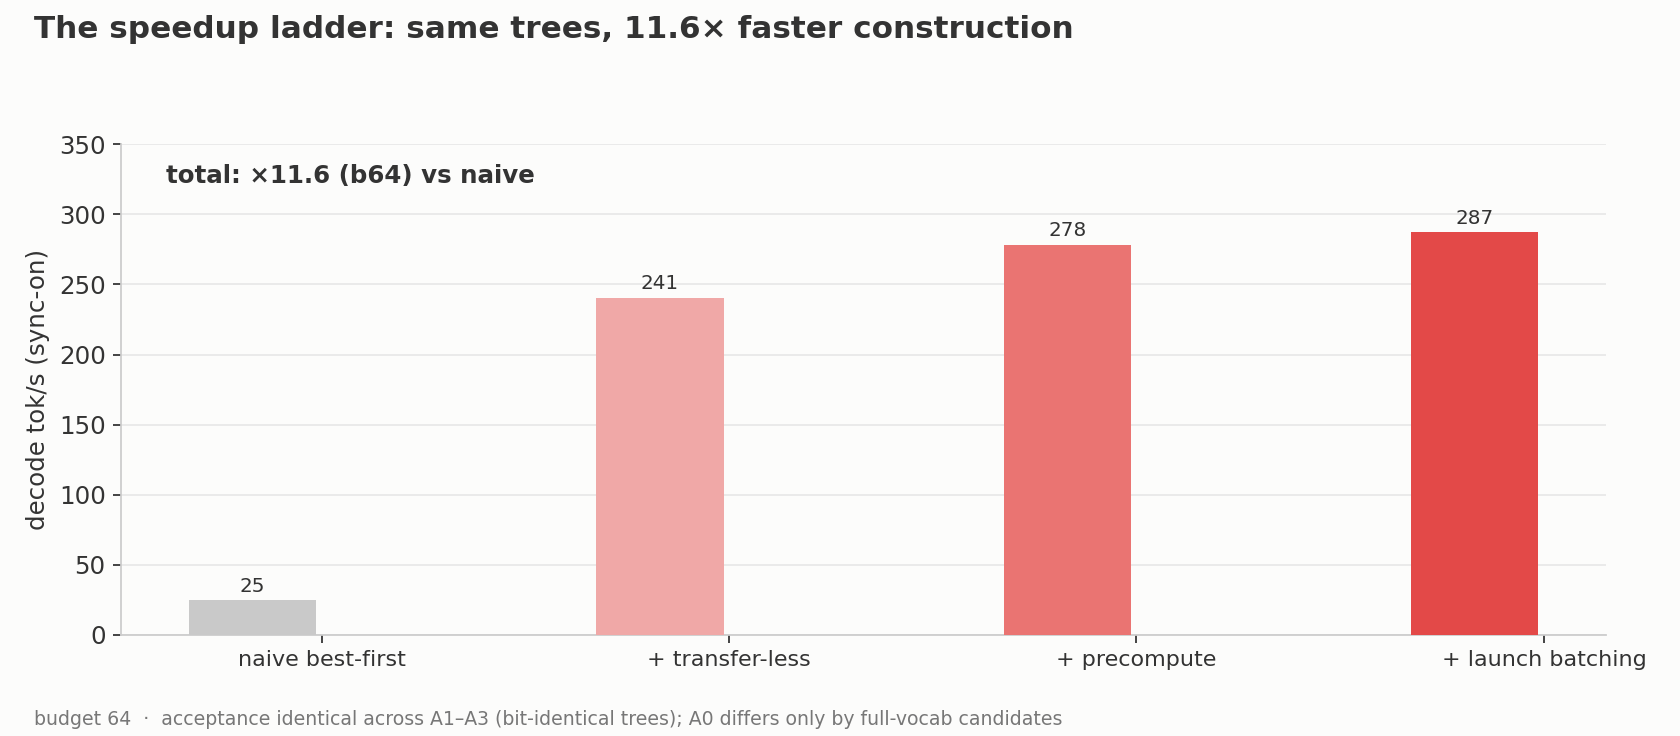
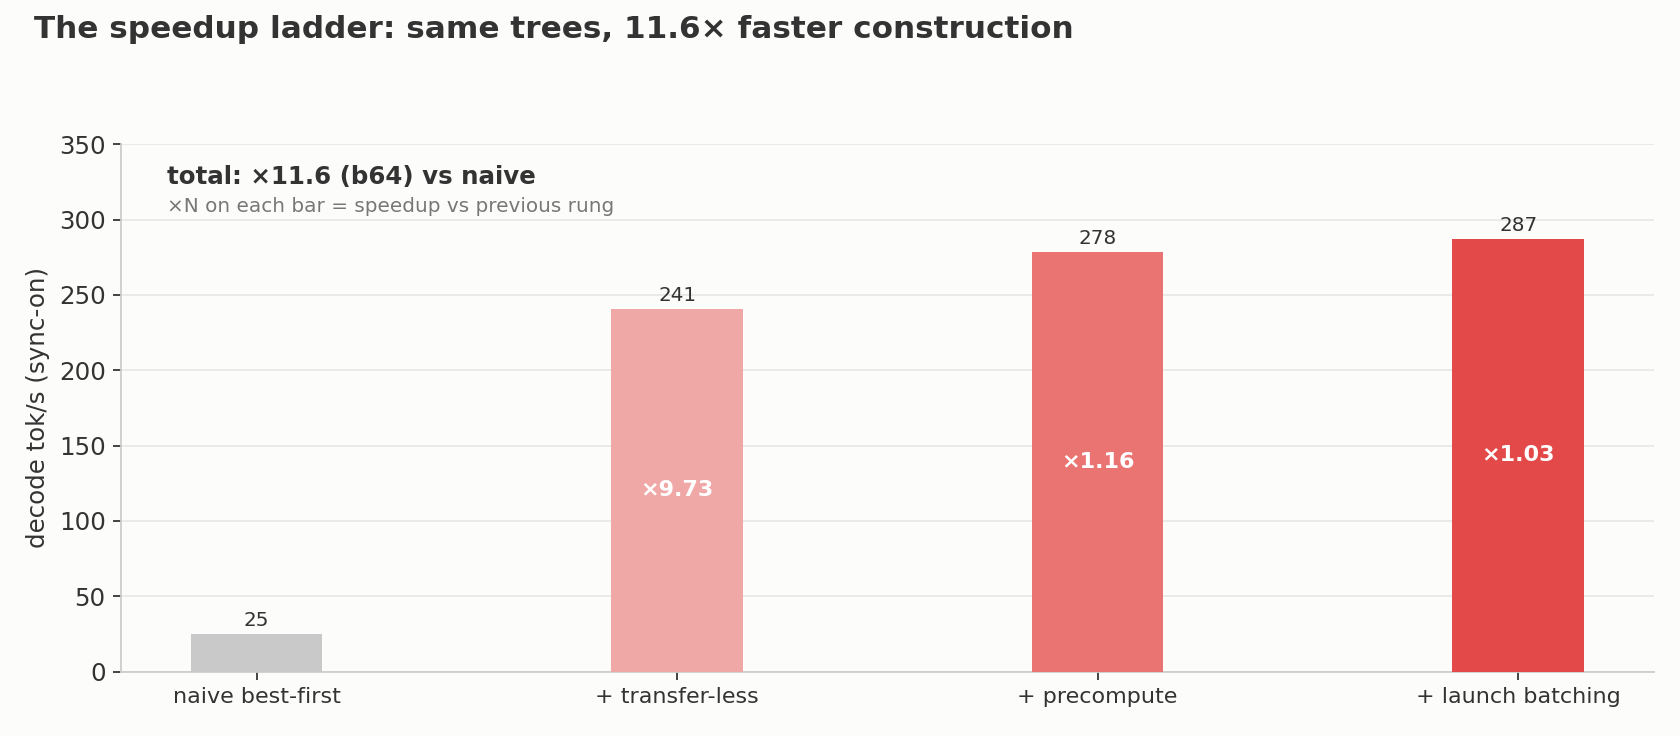
all

diff --git a/experiment5-final-results/make_per_domain_b64.py b/experiment5-final-results/make_per_domain_b64.py
@@ -1,0 +1,71 @@
+"""Budget-64-only per-domain chart: DFlash, DSpark, DDTree, SparklingTree (C=128).
+
+Run: python3 make_per_domain_b64.py  -> results/final_per_domain_b64.png
+"""
+
+import json
+from pathlib import Path
+
+import matplotlib
+matplotlib.use("Agg")
+import matplotlib.pyplot as plt
+
+HERE = Path(__file__).parent
+OUT = HERE / "results"
+
+METHODS = ["DFlash", "DSpark", "DDTree", "SparklingTree"]
+LABEL = {"DFlash": "DFlash", "DSpark": "DSpark", "DDTree": "DDTree",
+         "SparklingTree": "SparklingTree (C=128)"}
+# Validated palette (dataviz six-checks), same as make_charts_v2.py.
+COLOR = {"DFlash": "#8460c9", "DSpark": "#bf7d15",
+         "DDTree": "#4a7fd4", "SparklingTree": "#e34948"}
+SURFACE = "#fcfcfb"
+INK = "#333333"
+
+plt.rcParams.update({
+    "figure.facecolor": SURFACE, "axes.facecolor": SURFACE,
+    "axes.edgecolor": "#cccccc", "axes.labelcolor": INK,
+    "text.color": INK, "xtick.color": INK, "ytick.color": INK,
+    "axes.spines.top": False, "axes.spines.right": False,
+    "font.size": 11,
+})
+
+
+def main():
+    s = json.loads((OUT / "summary_t0.json").read_text())
+    res = s["results"]["instrumented"]["64"]
+    datasets = sorted(res)
+
+    fig, ax = plt.subplots(figsize=(11.5, 4.8))
+    width = 0.2
+    for j, m in enumerate(METHODS):
+        xs, vs = [], []
+        for i, ds in enumerate(datasets):
+            e = res[ds].get(m)
+            if not e:
+                continue
+            xs.append(i + (j - 1.5) * width)
+            vs.append(e["tps_decode"])
+        ax.bar(xs, vs, width * 0.92, color=COLOR[m], zorder=3, label=LABEL[m])
+        for x, v in zip(xs, vs):
+            ax.text(x, v + 3, f"{v:.0f}", ha="center", va="bottom", fontsize=8.2,
+                    fontweight="bold" if m == "SparklingTree" else "normal")
+    ax.set_xticks(range(len(datasets)))
+    ax.set_xticklabels(datasets, fontsize=10.5)
+    ax.set_ylabel("decode tok/s")
+    ax.grid(axis="y", color="#e8e8e8", zorder=0)
+    ax.margins(y=0.18)
+    ax.legend(frameon=False, ncol=4, loc="upper right", fontsize=9.5)
+    fig.suptitle("Per-domain decode throughput at budget 64",
+                 fontsize=13.5, fontweight="bold", x=0.02, ha="left")
+    fig.text(0.02, 0.015,
+             "6 datasets × 12 samples × 512 tok, seed 1 · same GPU, same job · final config (C=128, fanout 64)",
+             fontsize=8.5, color="#777777")
+    fig.tight_layout(rect=(0, 0.05, 1, 0.93))
+    fig.savefig(OUT / "final_per_domain_b64.png", dpi=160)
+    plt.close(fig)
+    print("wrote:", OUT / "final_per_domain_b64.png")
+
+
+if __name__ == "__main__":
+    main()

diff --git a/experiment4-faster/ablation/make_charts.py b/experiment4-faster/ablation/make_charts.py
@@ -165,12 +165,18 @@ def ladder_hero(res, budgets=None, suffix=""):
         vals = [agg(res, bk, a)[1] for a in ARMS]
         mults.append(vals[-1] / vals[0])
         for i, (a, v) in enumerate(zip(ARMS, vals)):
-            x = i + (j - 0.5) * width
+            x = i + (j - (len(budgets) - 1) / 2) * width
             bar = ax.bar(x, v, width * 0.92, color=shades[i], zorder=3)
             ax.bar_label(bar, labels=[f"{v:.0f}"], padding=2, fontsize=9)
+            if i > 0:
+                ax.text(x, v * 0.5, f"×{v / vals[i - 1]:.2f}", ha="center",
+                        va="center", color="white", fontsize=10,
+                        fontweight="bold", zorder=4)
     mtxt = " · ".join(f"×{m:.1f} (b{bk})" for m, bk in zip(mults, budgets))
     ax.text(0.03, 0.96, f"total: {mtxt} vs naive",
             transform=ax.transAxes, ha="left", va="top", fontsize=11, fontweight="bold")
+    ax.text(0.03, 0.90, "×N on each bar = speedup vs previous rung",
+            transform=ax.transAxes, ha="left", va="top", fontsize=9, color="#777777")
     ax.set_xticks(range(n))
     ax.set_xticklabels([ARM_LABEL[a] for a in ARMS], fontsize=10)
     ax.set_ylabel("decode tok/s (sync-on)")
@@ -179,12 +185,15 @@ def ladder_hero(res, budgets=None, suffix=""):
     title_m = "–".join(f"{m:.1f}" for m in sorted(mults))
     fig.suptitle(f"The speedup ladder: same trees, {title_m}× faster construction",
                  fontsize=14, fontweight="bold", x=0.02, ha="left")
-    group_note = ("per group: left bar = budget 64, right bar = budget 128  ·  "
-                  if len(budgets) > 1 else f"budget {budgets[0]}  ·  ")
-    fig.text(0.02, 0.015, group_note +
-             "acceptance identical across A1–A3 (bit-identical trees); A0 differs only by full-vocab candidates",
-             fontsize=8.5, color="#777777")
-    fig.tight_layout(rect=(0, 0.05, 1, 0.93))
+    if len(budgets) > 1:
+        fig.text(0.02, 0.015,
+                 "per group: left bar = budget 64, right bar = budget 128  ·  "
+                 "acceptance identical across A1–A3 (bit-identical trees); A0 differs only by full-vocab candidates",
+                 fontsize=8.5, color="#777777")
+        rect = (0, 0.05, 1, 0.93)
+    else:
+        rect = (0, 0, 1, 0.93)
+    fig.tight_layout(rect=rect)
     fig.savefig(OUT / f"ladder_overall{suffix}.png", dpi=160)
     plt.close(fig)
 

diff --git a/README.md b/README.md
@@ -15,3 +15,40 @@ Frontier speculative decoding. Read more here: https://jwlabs.vercel.app/post/sp
 - `old-experiments/` — scratch / superseded runs
 - `reference-papers/` — DDTree, DFlash, DSpark PDFs
 - `assets/` — figures and images
+
+
+
+EXACT FULL RESULTS — citable run (seed 1, 6ds x 12, 512 tok, temp 0, sync ON, compaction ON, C=128, fanout 64)
+
+===== BUDGET 64 =====
+dataset           Autoregressiv              DFlash              DSpark              DDTree       SparklingTree
+alpaca       1.00a    51.0t       3.07a    95.4t       3.66a   109.9t       4.46a   132.7t       5.10a   149.3t     
+gsm8k        1.00a    52.2t       6.71a   218.0t       7.88a   242.6t       8.65a   268.7t       9.73a   298.6t     
+humaneval    1.00a    52.7t       6.32a   207.5t       6.41a   200.2t       8.19a   267.7t       8.78a   273.1t     
+math500      1.00a    52.0t       7.80a   253.6t       7.37a   230.5t       9.70a   309.7t       9.25a   287.2t     
+mbpp         1.00a    52.4t       5.47a   176.6t       5.77a   179.8t       7.60a   231.6t       7.53a   224.5t     
+mt-bench     1.00a    51.5t       3.31a   105.8t       3.76a   114.7t       4.64a   145.3t       5.15a   157.0t     
+AGGREGATE    1.00a    52.0t       5.10a   163.9t       5.53a   170.3t       6.86a   214.4t       7.34a   223.4t     
+SPEEDUP                 1.00x                3.15x                3.27x                4.12x                4.29x   
+
+===== BUDGET 128 =====
+dataset           Autoregressiv              DFlash              DSpark              DDTree       SparklingTree
+alpaca       1.00a    51.0t       3.07a    95.4t       3.66a   109.9t       4.61a   147.8t       5.40a   169.0t     
+gsm8k        1.00a    52.2t       6.71a   218.0t       7.88a   242.6t       8.99a   280.9t      10.30a   311.9t     
+humaneval    1.00a    52.7t       6.32a   207.5t       6.41a   200.2t       8.97a   284.7t       9.13a   279.8t     
+math500      1.00a    52.0t       7.80a   253.6t       7.37a   230.5t      10.14a   323.9t       9.71a   302.0t     
+mbpp         1.00a    52.4t       5.47a   176.6t       5.77a   179.8t       7.80a   252.9t       7.88a   244.7t     
+mt-bench     1.00a    51.5t       3.31a   105.8t       3.76a   114.7t       5.02a   158.0t       5.44a   167.1t     
+AGGREGATE    1.00a    52.0t       5.10a   163.9t       5.53a   170.3t       7.28a   231.5t       7.73a   238.3t     
+SPEEDUP                 1.00x                3.15x                3.27x                4.45x                4.58x   
+
+===== BUDGET 256 =====
+dataset           Autoregressiv              DFlash              DSpark              DDTree       SparklingTree
+alpaca       1.00a    51.0t       3.07a    95.4t       3.66a   109.9t       4.95a   152.1t       5.53a   168.1t     
+gsm8k        1.00a    52.2t       6.71a   218.0t       7.88a   242.6t       9.53a   300.8t      10.72a   327.5t     
+humaneval    1.00a    52.7t       6.32a   207.5t       6.41a   200.2t       9.31a   286.2t       9.52a   283.7t     
+math500      1.00a    52.0t       7.80a   253.6t       7.37a   230.5t      10.39a   331.3t      10.22a   316.6t     
+mbpp         1.00a    52.4t       5.47a   176.6t       5.77a   179.8t       8.21a   252.5t       8.38a   248.8t     
+mt-bench     1.00a    51.5t       3.31a   105.8t       3.76a   114.7t       5.24a   158.8t       5.87a   172.9t     
+AGGREGATE    1.00a    52.0t       5.10a   163.9t       5.53a   170.3t       7.67a   237.1t       8.15a   245.0t     
+SPEEDUP                 1.00x                3.15x                3.27x                4.55x                4.71x   
